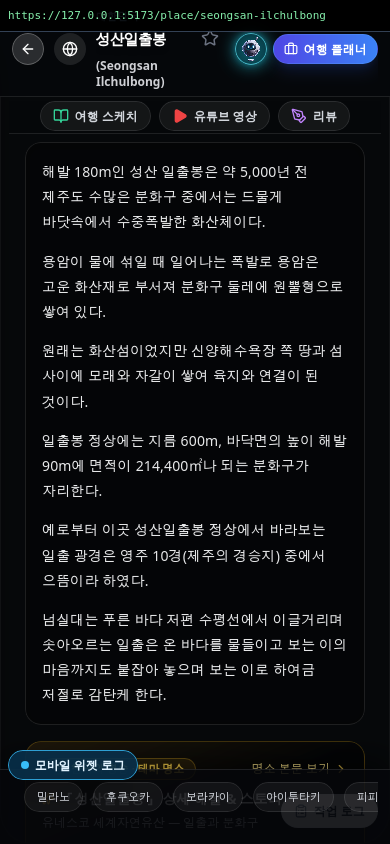
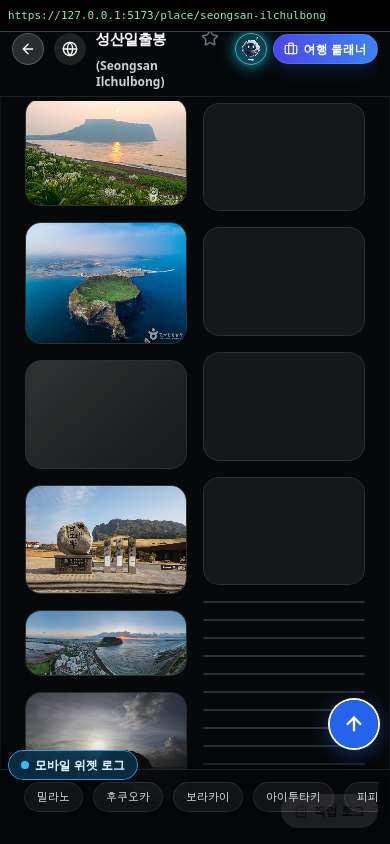
docs(qa): #477 갤러리 full WebKit·경포대/성산 재캡처 및 Enter 즉시 테스트

diff --git a/docs/qa/pr-site-search/real-user-477-manifest.md b/docs/qa/pr-site-search/real-user-477-manifest.md
@@ -1,14 +1,13 @@
 # PR #477 real-user captures (390px)
 
-Base: `https://127.0.0.1:5173` · viewport 390×844 clip · `VITE_GATEO_SITE_SEARCH=1`
+Base: `https://127.0.0.1:5173` · viewport 390×844 clip · Enter delay 0ms
 
 | Place | Browser | File | URL |
 |-------|---------|------|-----|
-| 흥정계곡 | chromium | real-user-heungjeong-chromium-390.png | https://127.0.0.1:5173/ |
-| 흥정계곡 | webkit | real-user-heungjeong-webkit-390.png | https://127.0.0.1:5173/ |
-| 경포대 (강릉) | chromium | real-user-gangneung-gyeongpodae-chromium-390.png | https://127.0.0.1:5173/place/gyeongpodae |
-| 경포대 (강릉) | webkit | real-user-gangneung-gyeongpodae-webkit-390.png | https://127.0.0.1:5173/place/gyeongpodae |
-| 성산일출봉 (제주) | chromium | real-user-jeju-seongsan-chromium-390.png | https://127.0.0.1:5173/place/seongsan-ilchulbong |
-| 성산일출봉 (제주) | webkit | real-user-jeju-seongsan-webkit-390.png | https://127.0.0.1:5173/place/seongsan-ilchulbong |
-
-Gallery assert: 흥정계곡 — no `사진을 불러오지 못했습니다` (Chromium + WebKit).
+| 흥정계곡 · chromium (Enter card) | chromium | real-user-heungjeong-chromium-390.png | https://127.0.0.1:5173/ |
+| 경포대 · chromium (gallery=44 tour=24) | chromium | real-user-gangneung-gyeongpodae-chromium-390.png | https://127.0.0.1:5173/place/gyeongpodae |
+| 성산일출봉 · chromium (gallery=24 tour=24) | chromium | real-user-jeju-seongsan-chromium-390.png | https://127.0.0.1:5173/place/seongsan-ilchulbong |
+| 흥정계곡 · webkit (Enter card) | webkit | real-user-heungjeong-webkit-390.png | https://127.0.0.1:5173/ |
+| 흥정계곡 gallery full (gallery=6 tour=6) | webkit | heungjeong-gallery-full-webkit-390.png | https://127.0.0.1:5173/place/%ED%9D%A5%EC%A0%95%EA%B3%84%EA%B3%A1 |
+| 경포대 · webkit (gallery=44 tour=24) | webkit | real-user-gangneung-gyeongpodae-webkit-390.png | https://127.0.0.1:5173/place/gyeongpodae |
+| 성산일출봉 · webkit (gallery=24 tour=24) | webkit | real-user-jeju-seongsan-webkit-390.png | https://127.0.0.1:5173/place/seongsan-ilchulbong |

diff --git a/docs/qa/pr-site-search/README.md b/docs/qa/pr-site-search/README.md
@@ -6,8 +6,9 @@ Captured from `https://127.0.0.1:5173` · viewport **390px** clip (headless).
 
 | Region | Query | Browser | File | URL |
 |--------|-------|---------|------|-----|
-| 평창 (흥정계곡) | 흥정계곡 | Chromium | real-user-heungjeong-chromium-390.png | `/` (catalog pin; gallery must load) |
-| 평창 (흥정계곡) | 흥정계곡 | WebKit | real-user-heungjeong-webkit-390.png | `/` |
+| 평창 (흥정계곡) | 흥정계곡 | Chromium | real-user-heungjeong-chromium-390.png | `https://127.0.0.1:5173/` (Enter → catalog card) |
+| 평창 (흥정계곡) | 흥정계곡 | WebKit | real-user-heungjeong-webkit-390.png | `https://127.0.0.1:5173/` |
+| 평창 (흥정계곡) gallery | 흥정계곡 | WebKit | heungjeong-gallery-full-webkit-390.png | `/place/흥정계곡` · 6 KTO · 0 stock |
 | 강릉 | 경포대 | Chromium | real-user-gangneung-gyeongpodae-chromium-390.png | `/place/gyeongpodae` |
 | 강릉 | 경포대 | WebKit | real-user-gangneung-gyeongpodae-webkit-390.png | `/place/gyeongpodae` |
 | 제주 | 성산일출봉 | Chromium | real-user-jeju-seongsan-chromium-390.png | `/place/seongsan-ilchulbong` |
